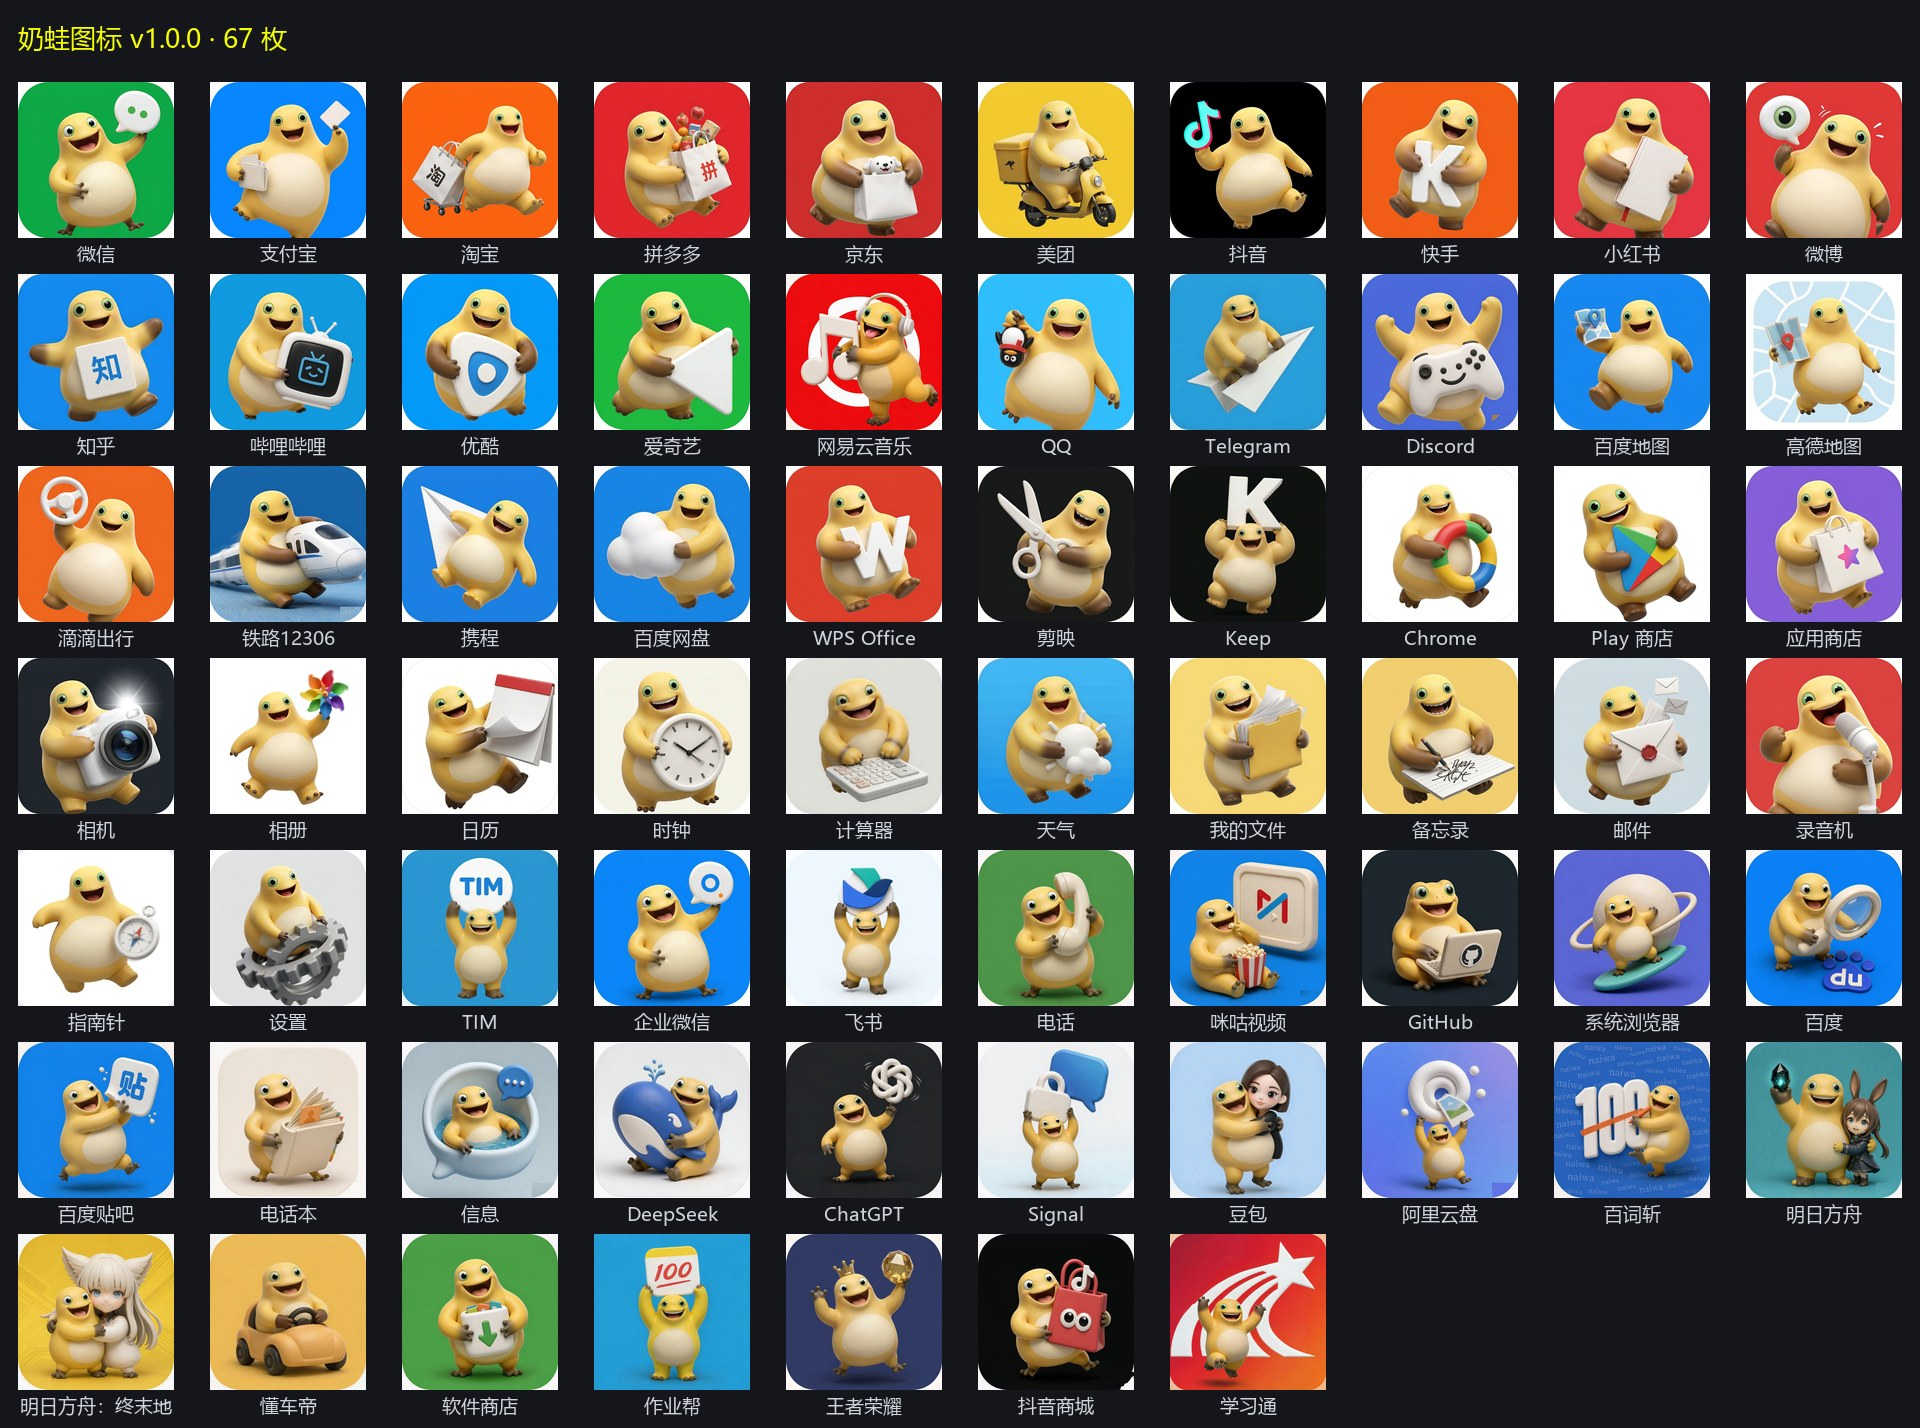
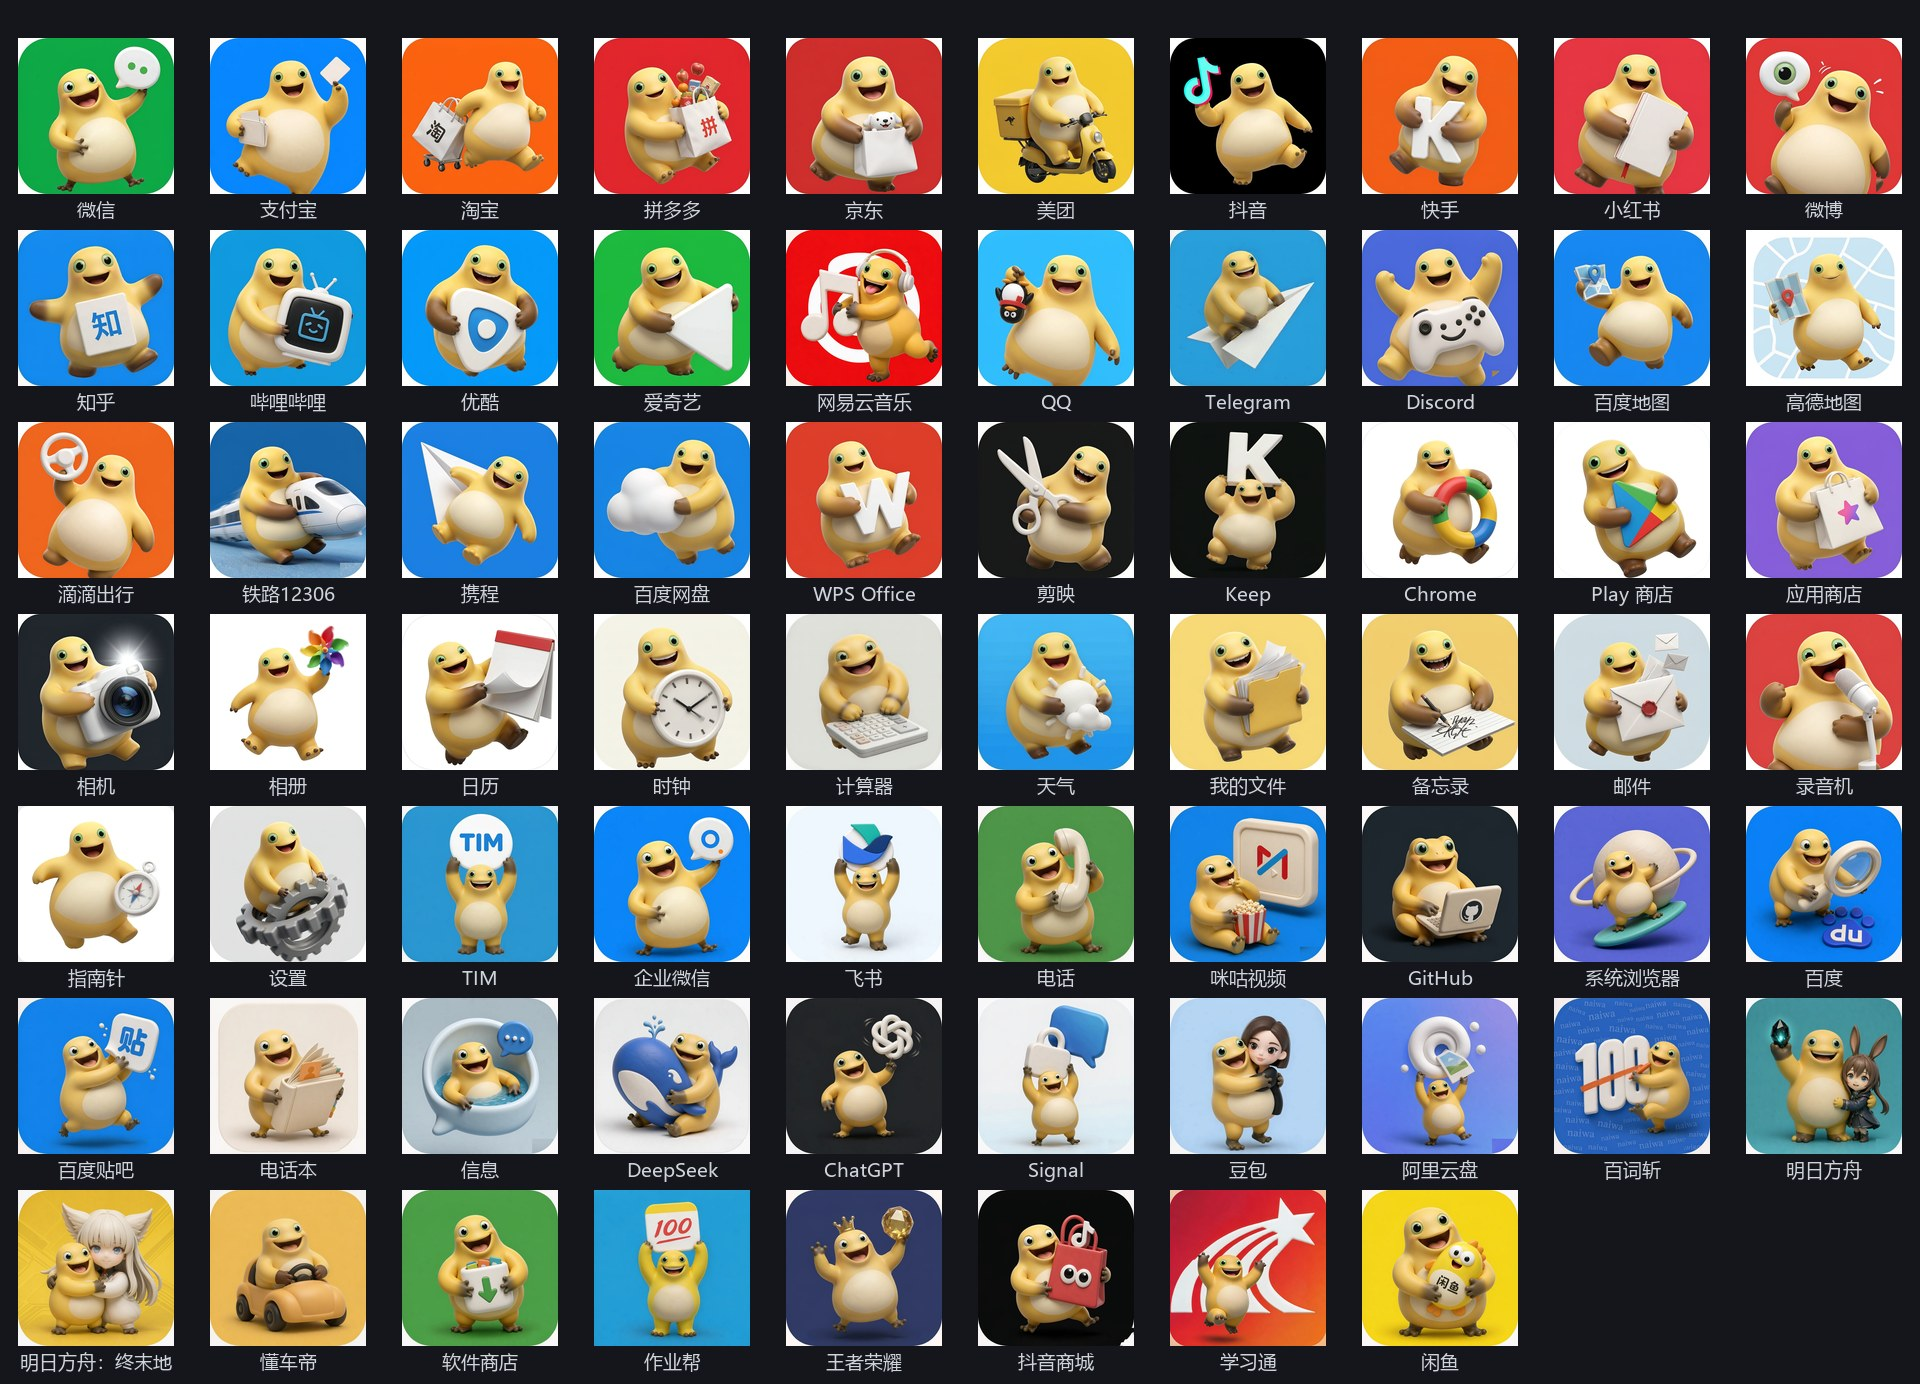
feat: v1.0.4 修好一批应用在桌面上换不上图标的问题
映射改用手机实测的启动组件重写；系统应用改为一加 ColorOS 真实包名；新增闲鱼图标。

diff --git a/ICONS.md b/ICONS.md
@@ -1,6 +1,6 @@
 # 已收录应用清单
 
-共 **67** 枚图标，按应用名首字母排序（中文按拼音、英文按字母本身）。
+共 **68** 枚图标，按应用名首字母排序（中文按拼音、英文按字母本身）。
 「图标名」就是 APK 里 `res/drawable-nodpi/<图标名>.png` 的资源名。
 
 > 想要的应用不在列表里？在 App 的「图标检查」页点「导出应用清单」，发到 [Issues](https://github.com/chromoany/naiwa-icons-app/issues) 即可，下一版加上。
@@ -9,18 +9,18 @@
 |---|---|---|
 | `iqiyi` | 爱奇艺 | `com.qiyi.video` |
 | `aliyundrive` | 阿里云盘 | `com.alicloud.databox` |
-| `baidu` | 百度 | `com.baidu.searchbox` |
 | `baicizhan` | 百词斩 | `com.jiongji.andriod.card` |
+| `baidu` | 百度 | `com.baidu.searchbox` |
 | `baidu_map` | 百度地图 | `com.baidu.BaiduMap` |
 | `tieba` | 百度贴吧 | `com.baidu.tieba` |
 | `baidu_netdisk` | 百度网盘 | `com.baidu.netdisk` |
-| `notes` | 备忘录 | `com.samsung.android.app.notes` |
+| `notes` | 备忘录 | `com.coloros.note`<br>`com.samsung.android.app.notes` |
 | `bilibili` | 哔哩哔哩 | `tv.danmaku.bili` |
 | `chatgpt` | ChatGPT | `com.openai.chatgpt` |
 | `chrome` | Chrome | `com.android.chrome` |
 | `deepseek` | DeepSeek | `com.deepseek.chat` |
-| `phone` | 电话 | `com.sec.android.app.dialer` |
-| `contacts` | 电话本 | `com.samsung.android.app.contacts` |
+| `phone` | 电话 | `com.android.contacts/.DialtactsActivityAlias`<br>`com.sec.android.app.dialer` |
+| `contacts` | 电话本 | `com.android.contacts/.PeopleActivityAlias`<br>`com.samsung.android.app.contacts` |
 | `didi` | 滴滴出行 | `com.sdu.didi.psnger` |
 | `discord` | Discord | `com.discord` |
 | `dongchedi` | 懂车帝 | `com.ss.android.auto` |
@@ -32,10 +32,10 @@
 | `github` | GitHub | `com.github.android` |
 | `jianying` | 剪映 | `com.lemon.lv` |
 | `jd` | 京东 | `com.jingdong.app.mall` |
-| `calculator` | 计算器 | `com.sec.android.app.popupcalculator` |
+| `calculator` | 计算器 | `com.coloros.calculator`<br>`com.sec.android.app.popupcalculator` |
 | `keep` | Keep | `com.gotokeep.keep` |
 | `kuaishou` | 快手 | `com.smile.gifmaker` |
-| `recorder` | 录音机 | `com.sec.android.app.voicenote` |
+| `recorder` | 录音机 | `com.coloros.soundrecorder`<br>`com.sec.android.app.voicenote` |
 | `meituan` | 美团 | `com.sankuai.meituan` |
 | `migu_video` | 咪咕视频 | `com.cmcc.cmvideo` |
 | `arknights` | 明日方舟 | `com.hypergryph.arknights` |
@@ -44,33 +44,34 @@
 | `play_store` | Play 商店 | `com.android.vending` |
 | `wecom` | 企业微信 | `com.tencent.wework` |
 | `qq` | QQ | `com.tencent.mobileqq` |
-| `calendar` | 日历 | `com.samsung.android.calendar` |
+| `calendar` | 日历 | `com.coloros.calendar`<br>`com.samsung.android.calendar` |
 | `software_store` | 软件商店 | `com.heytap.market`<br>`com.xiaomi.market`<br>`com.huawei.appmarket` |
 | `settings` | 设置 | `com.android.settings` |
-| `clock` | 时钟 | `com.sec.android.app.clockpackage` |
+| `clock` | 时钟 | `com.coloros.alarmclock`<br>`com.sec.android.app.clockpackage` |
 | `signal` | Signal | `org.thoughtcrime.securesms` |
 | `taobao` | 淘宝 | `com.taobao.taobao` |
 | `telegram` | Telegram | `org.telegram.messenger` |
-| `weather` | 天气 | `com.sec.android.daemonapp` |
+| `weather` | 天气 | `com.coloros.weather2`<br>`com.sec.android.app.daemonapp` |
 | `railway` | 铁路12306 | `com.MobileTicket` |
 | `tim` | TIM | `com.tencent.tim` |
 | `netease` | 网易云音乐 | `com.netease.cloudmusic` |
 | `wzry` | 王者荣耀 | `com.tencent.tmgp.sgame` |
 | `weibo` | 微博 | `com.sina.weibo` |
 | `wechat` | 微信 | `com.tencent.mm` |
-| `files` | 我的文件 | `com.android.documentsui` |
+| `files` | 我的文件 | `com.android.documentsui`<br>`com.coloros.filemanager` |
 | `wps` | WPS Office | `cn.wps.moffice_eng` |
 | `gallery` | 相册 | `com.coloros.gallery3d` |
 | `camera` | 相机 | `com.oplus.camera` |
 | `xiaohongshu` | 小红书 | `com.xingin.xhs` |
+| `xianyu` | 闲鱼 | `com.taobao.idlefish` |
 | `ctrip` | 携程 | `ctrip.android.view` |
-| `messages` | 信息 | `com.samsung.android.messaging` |
+| `messages` | 信息 | `com.android.mms/.ui.ConversationList`<br>`com.samsung.android.messaging` |
 | `samsung_internet` | 系统浏览器 | `com.sec.android.app.samsunginternet` |
 | `xuexitong` | 学习通 | `com.chaoxing.mobile` |
 | `galaxy_store` | 应用商店 | `com.sec.android.app.samsungapps` |
-| `email` | 邮件 | `com.samsung.android.email.provider` |
+| `email` | 邮件 | `com.android.email`<br>`com.samsung.android.email.provider` |
 | `youku` | 优酷 | `com.youku.phone` |
 | `alipay` | 支付宝 | `com.eg.android.AlipayGphone` |
 | `zhihu` | 知乎 | `com.zhihu.android` |
-| `compass` | 指南针 | `com.sec.android.app.compass` |
+| `compass` | 指南针 | `com.coloros.compass2`<br>`com.sec.android.app.compass` |
 | `zuoyebang` | 作业帮 | `com.baidu.homework` |

diff --git a/CHANGELOG.md b/CHANGELOG.md
@@ -6,6 +6,25 @@
 
 ---
 
+## [v1.0.4] · 2026-09-24
+
+修好一批应用在桌面上换不上图标的问题，补一张闲鱼图标。
+
+### 新增
+
+- 闲鱼图标，图标总数 67 → 68。
+
+### 改进
+
+- 应用映射按手机实测的启动组件重写。图标包靠 `ComponentInfo{包名/Activity}` 精确匹配，原来那批组件名大多已经过时（应用改版启动页就会变），对不上桌面就显示原图标，看着像漏做了。这次把 60 多个常用应用的映射逐条核对过，淘宝、QQ、拼多多、美团、快手、网易云音乐、WPS、高德地图、铁路 12306、百度网盘、Keep、Discord 此前都不生效。
+- 系统应用改为一加 / OPPO 的真实包名：日历、时钟、计算器、天气、便签、录音机、指南针、邮件、电话、联系人、信息、文件管理。此前写的是三星包名，在 ColorOS 上一直没生效。
+
+### 未变化
+
+- App 界面、功能、包名与签名不变，直接覆盖升级即可。
+
+---
+
 ## [v1.0.3] · 2026-09-24
 
 修回圆角图标。
